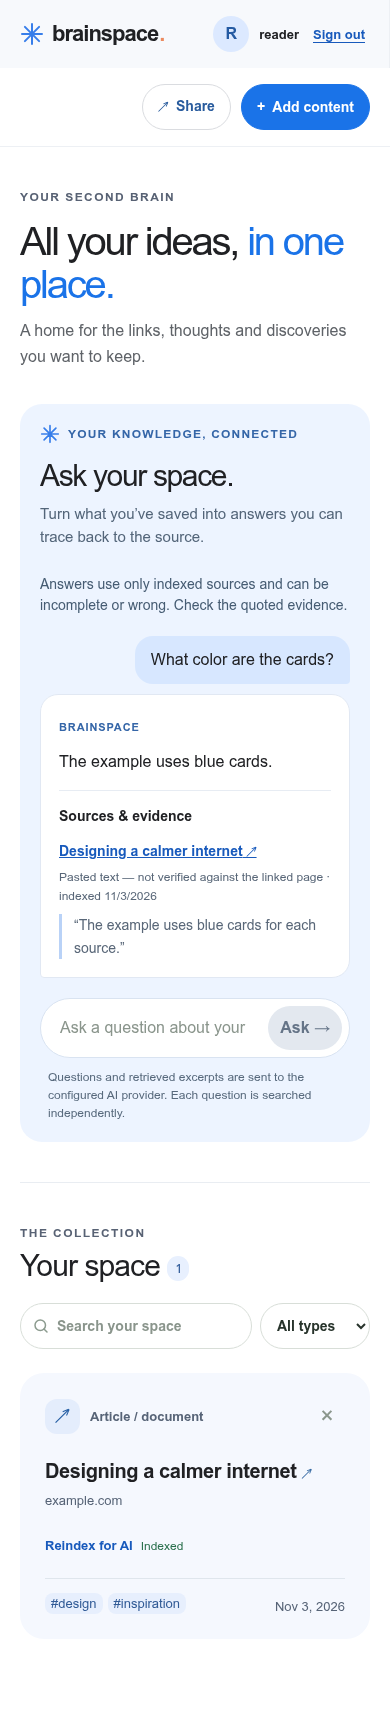
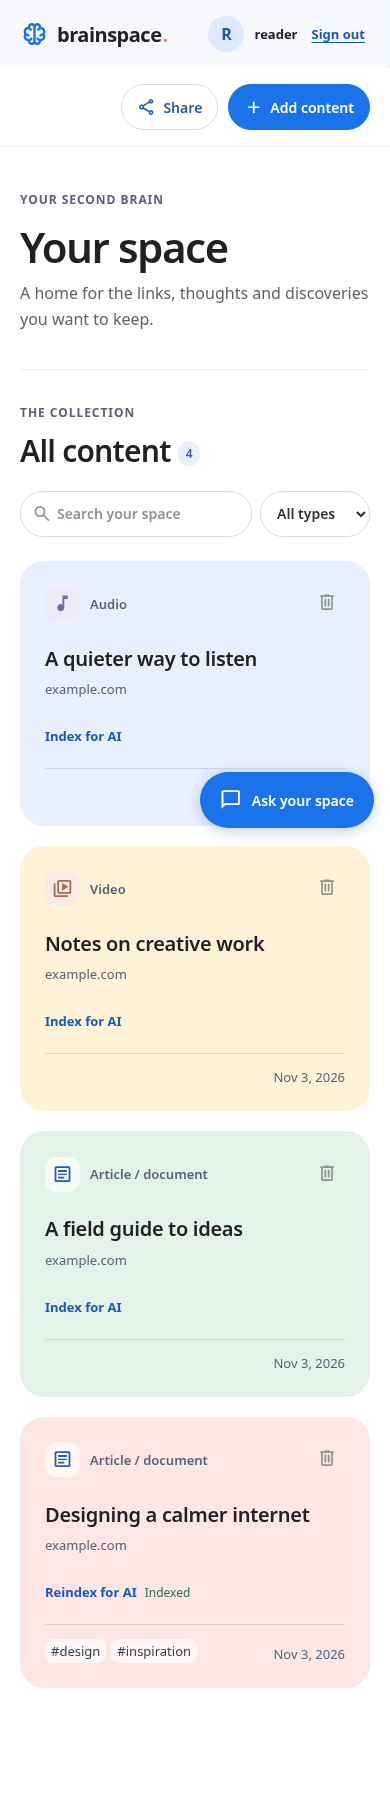
docs: explain Python RAG deployment and update screenshots

diff --git a/DEPLOYMENT.md b/DEPLOYMENT.md
@@ -1,10 +1,10 @@
 # Deployment guide
 
-This guide describes the implemented Node/Express API, MongoDB database and static Vite frontend. No production infrastructure is provisioned by this repository. The recommended initial topology is one HTTPS hostname, with a reverse proxy serving `frontend/dist` and forwarding `/api/` to one private Node process on port 8000. MongoDB should be a private, backed-up managed service or a separately secured instance. Keeping frontend and API on the same origin is important for the HTTP-only `SameSite=Lax` session cookie; cross-site hosting is not supported by the default cookie configuration.
+This guide describes the implemented Node/Express API, MongoDB database and static Vite frontend. No production infrastructure is provisioned by this repository. The recommended initial topology is one HTTPS hostname, with a reverse proxy serving `frontend/dist` and forwarding `/api/` to one private Node process on port 8000. When AI is enabled, Node starts a local Python subprocess for each RAG request; no Python HTTP listener is required. MongoDB should be a private, backed-up managed service or a separately secured instance. Keeping frontend and API on the same origin is important for the HTTP-only `SameSite=Lax` session cookie; cross-site hosting is not supported by the default cookie configuration.
 
 ## 1. Prepare services and secrets
 
-- Provision Node.js 22.12+ and MongoDB compatible with Mongoose 9; restrict database network access to the backend host and create a least-privilege database user with TLS enabled for remote connections. Enable backups and test restoring them.
+- Provision Node.js 22.12+, Python 3.10+ (standard library only) and MongoDB compatible with Mongoose 9; restrict database network access to the backend host and create a least-privilege database user with TLS enabled for remote connections. Enable backups and test restoring them.
 - Choose a DNS hostname and provision HTTPS. Keep Node and MongoDB off the public internet; expose only ports 80/443 on the reverse proxy.
 - Store environment variables in the host's secret manager or service environment, not in the repository, logs or frontend bundle:
 
@@ -16,6 +16,7 @@ This guide describes the implemented Node/Express API, MongoDB database and stat
 | `PORT` | backend | Defaults to `8000`. Bind/route privately at the infrastructure layer. |
 | `CORS_ORIGIN` | backend | Required in production. Exact public frontend origin, e.g. `https://brain.example.com`; comma-separated if multiple trusted origins. No trailing slash. |
 | `TRUST_PROXY_HOPS` | backend | Optional integer 1–10; set only to the exact count of trusted reverse proxies. Used for client IP/rate limiting; incorrect values permit spoofing or overly broad throttling. |
+| `RAG_PYTHON` | backend | Optional absolute path to the Python 3.10+ executable; defaults to `python3`. |
 | `RAG_ENABLED` | backend | Optional; `true` explicitly enables AI indexing and chat. Default off. |
 | `OPENAI_API_KEY` | backend | Required when AI is enabled; secret manager only, never frontend. |
 | `OPENAI_EMBEDDING_MODEL` | backend | Optional; default `text-embedding-3-small`. Changing it requires reindexing. |
@@ -36,7 +37,7 @@ npm --prefix frontend run build
 NODE_ENV=production npm start
 ```
 
-Use a process manager or hosting service to run `node dist/index.js` with the environment above, restart on failure, and retain structured deployment logs without secrets or share tokens. The API exits if the token secret is weak, the production CORS origin is missing, or MongoDB cannot connect. Configure health checks at `/api/health`; this is a liveness endpoint, not a database connectivity guarantee. Probe an authenticated data workflow separately.
+Use a process manager or hosting service to run `node dist/index.js` with its working directory set to the repository root (so `python -m rag.worker` can locate the Python package), with the environment above, restart on failure, and retain structured deployment logs without secrets or share tokens. The API exits if the token secret is weak, the production CORS origin is missing, or MongoDB cannot connect. Configure health checks at `/api/health`; this is a liveness endpoint, not a database connectivity guarantee. Probe an authenticated data workflow separately.
 
 ## 3. Route traffic and configure HTTPS
 
@@ -87,4 +88,4 @@ To roll back, restore the previously tested application artifact/commit and its 
 
 AI is off by default. Before enabling it, review provider data-handling terms, user consent, spending limits and [RAG_EVALUATION.md](RAG_EVALUATION.md). Set the variables in the backend secret manager and allow outbound HTTPS to the OpenAI API; source fetching also needs outbound HTTP(S) to publicly accessible pages. Prevent access to private, loopback, link-local and cloud-metadata addresses at the network layer as defense in depth; the application validates and pins DNS addresses on each redirect, but should not be the only network control. Do not log prompts, source text, bearer keys, or share tokens. Source excerpts and questions are transmitted to OpenAI; an index stores source chunks and embeddings in MongoDB. Backups retain them until their retention period expires, even if a live index is removed.
 
-The current index is limited to 250 indexed sources per account and performs in-process cosine ranking, not a scalable vector database. Protect the service from abuse and configure distributed quotas/monitoring before multi-instance or high-volume deployment; the built-in AI rate limit is per-process. Changing the embedding model makes existing indexes incompatible until individually reindexed. There is no automatic refresh of changed websites, transcription, OCR, PDF parsing, or private-site authentication. Treat an unreachable/unsupported source as a request for pasted text, never as verified content. Real model accuracy, production network policy, data retention and costs need staging verification before rollout.
+The current index is limited to 250 indexed sources per account and performs per-request Python-process cosine ranking, not a scalable vector database. Protect the service from abuse and configure distributed quotas/monitoring before multi-instance or high-volume deployment; the built-in AI rate limit is per-process. Changing the embedding model makes existing indexes incompatible until individually reindexed. There is no automatic refresh of changed websites, transcription, OCR, PDF parsing, or private-site authentication. Treat an unreachable/unsupported source as a request for pasted text, never as verified content. Real model accuracy, production network policy, data retention and costs need staging verification before rollout.

diff --git a/RAG_EVALUATION.md b/RAG_EVALUATION.md
@@ -2,7 +2,7 @@
 
 ## Enable it
 
-1. Run MongoDB and the BrainSpace API/frontend as described in README.md.
+1. Install Python 3.10+ (no additional Python packages are needed), and run MongoDB and the BrainSpace API/frontend from the repository root as described in README.md. If needed, set `RAG_PYTHON` to the absolute Python executable path on the backend.
 2. In the **backend** `.env` or secret manager set:
 
 ```dotenv
@@ -14,22 +14,22 @@ OPENAI_CHAT_MODEL=gpt-4o-mini
 
 The key requires an OpenAI account with access to the selected models, available billing/quota, and network access to `https://api.openai.com`. The model must support Chat Completions structured outputs. Keep the key out of Git, logs, browser code and chat. The two model settings are optional with the shown defaults. After editing the environment, restart the API. Changing the embedding model requires reindexing each source.
 3. Save a link. On its card choose **Index for AI**. Paste at least 80 characters of source text, or leave the box empty to fetch a publicly accessible HTML/plain-text page. Read the privacy notice and explicitly consent. The first 24,000 characters are chunked and embedded. Restricted pages, PDFs, images, audio and video are not parsed/transcribed; paste their text or transcript instead. User content, questions and retrieved excerpts are sent to OpenAI and incur usage charges. Indexing is not automatic.
-4. Ask a question in **Ask your space**. Review the linked sources and quotations; pasted text is labelled and is not verified against the linked page. Extracted content can also become stale; each question is independent, so the chatbot does not resolve follow-up references from earlier messages. Click **Reindex for AI** to refresh changed text or **Remove AI index** to remove indexed chunks/vectors while retaining the saved link. Deleting the link also deletes its live index.
+4. Open the floating chat button and ask a question in **Ask your space**. Review the linked sources and quotations; pasted text is labelled and is not verified against the linked page. Extracted content can also become stale; each question is independent, so the chatbot does not resolve follow-up references from earlier messages. Click **Reindex for AI** to refresh changed text or **Remove AI index** to remove indexed chunks/vectors while retaining the saved link. Deleting the link also deletes its live index.
 
 ## How it works
 
-Each authenticated user can only index and retrieve their own content. Public page retrieval permits only HTTP(S) on standard ports, validates all DNS answers, pins the connection to a public address and revalidates each redirect. It caps response size and time. An external egress firewall is still required for defense in depth. HTML extraction is best effort, with no JavaScript execution or authenticated browsing.
+The Python RAG worker handles extraction, chunking, embeddings, retrieval, generation and evidence checks. The authenticated Express API scopes MongoDB reads and writes by user and starts the worker through private stdin/stdout; there is no Python HTTP endpoint. Existing indexed data is compatible. Each authenticated user can only index and retrieve their own content. Public page retrieval permits only HTTP(S) on standard ports, validates all DNS answers, pins the connection to a public address and revalidates each redirect. It caps response size and time. An external egress firewall is still required for defense in depth. HTML extraction is best effort, with no JavaScript execution or authenticated browsing.
 
 Text is split into overlapping ~1,000-character chunks. Vectors are stored in the owning content document. Retrieval ranks by cosine similarity, selects up to five chunks with a fixed 0.35 threshold, then asks the chat model to use only those excerpts. The server rejects answers without matching verbatim quotes and asks the model in a separate call to check whether the quotes support the answer. If retrieval, citation validation or support checks fail, the assistant abstains. A provider error is shown rather than fabricated into an answer.
 
 **These measures reduce risk; they do not guarantee truth, completeness, prompt-injection immunity or zero hallucinations.** The checker can make mistakes, the sources themselves can be inaccurate, and exact quotes do not prove entailment. Users should verify citations, especially for consequential decisions. Model output is displayed as text, not executed. Do not treat AI as an authority for medical, legal, financial, safety or other high-stakes decisions.
 
-The implementation is deliberately bounded: 250 indexed sources/account, 24,000 characters/source, 30 chunks/source, in-process ranking, 30 indexing/ask requests per user per 15 minutes **per server process**, and 30-second provider timeouts. The cosine threshold is a starting heuristic, not a calibrated confidence probability. There is no vector database, OCR, transcription, automatic reindexing, chat memory, streaming or distributed quota. Backups may retain deleted data subject to the operator's policy.
+The implementation is deliberately bounded: 250 indexed sources/account, 24,000 characters/source, 30 chunks/source, per-request Python subprocess ranking, 30 indexing/ask requests per user per 15 minutes **per server process**, 30-second provider timeouts, and a 120-second overall worker deadline. The cosine threshold is a starting heuristic, not a calibrated confidence probability. There is no vector database, OCR, transcription, automatic reindexing, chat memory, streaming or distributed quota. Backups may retain deleted data subject to the operator's policy.
 
 ## Test without provider charges
 
 ```bash
-npm run build && npm test
+npm run build && npm test && npm run test:rag
 npm --prefix frontend run build && npm --prefix frontend test
 ```
 

diff --git a/DEVELOPMENT.md b/DEVELOPMENT.md
@@ -29,7 +29,7 @@ Allowed content types: `article`, `video`, `audio`, `image`. Links must use HTTP
 
 ## Workflow and conventions
 
-Install and run commands are in [README.md](README.md). Branch from the current main branch, make a focused change, run the relevant suites, inspect the diff and commit a coherent milestone. Keep source code in TypeScript, prefer small domain-oriented components, keep network requests in `services/api.ts`, validate untrusted inputs at API boundaries, and scope every private database query to the authenticated user. Do not use Redux. Recoil atoms hold the current user and content list; local ephemeral form/dialog state stays local. Make writes through the API and update atom state only after success.
+Install and run commands are in [README.md](README.md). Branch from the current main branch, make a focused change, run the relevant suites, inspect the diff and commit a coherent milestone. Keep application/API code in TypeScript and RAG pipeline code in Python; prefer small domain-oriented components, keep network requests in `services/api.ts`, validate untrusted inputs at API boundaries, and scope every private database query to the authenticated user. Do not use Redux. Recoil atoms hold the current user and content list; local ephemeral form/dialog state stays local. Make writes through the API and update atom state only after success.
 
 For a feature: define and validate the API contract, add a service or model as needed, add the API route and owner checks, connect the frontend service and components, and test success, errors and authorization. Add new environment variables to `.env.example` and document them in the deployment guide. Never store secrets in source or the frontend. Keep tests near frontend components and in `tests/` for API/browser workflows.
 
@@ -37,6 +37,7 @@ For a feature: define and validate the API contract, add a service or model as n
 npm run dev                       # backend watch mode
 npm --prefix frontend run dev     # frontend dev server
 npm run build && npm test         # backend compile and integration tests
+npm run test:rag                  # Python retrieval and safety tests
 npm --prefix frontend run build && npm --prefix frontend test
 npm run test:e2e                  # built app, isolated DB and browser
 ```
@@ -45,4 +46,4 @@ Recoil 0.7.7's peer range permits React 18; this project pins React 18.3.1 rathe
 
 ## AI retrieval
 
-The opt-in RAG pipeline is in `src/services/rag/`: safe public page extraction, overlapping chunking, OpenAI embeddings, user-scoped cosine retrieval, structured grounded generation, exact-quote validation and a separate model support-check. The source text and vectors are stored under the owning Content record; deleting a source or removing its index removes them from the live database. The frontend provides explicit consent and shows source quotations. Follow [RAG_EVALUATION.md](RAG_EVALUATION.md) before claiming quality or enabling production usage. No provider key belongs in frontend code.
+The opt-in RAG pipeline lives in `rag/` (Python standard library): safe public page extraction, overlapping chunking, OpenAI embeddings, cosine retrieval, structured grounded generation, exact-quote validation and a separate model support-check. Express authenticates users and scopes MongoDB reads and writes in `src/services/rag/assistant.service.ts`, then starts a private Python subprocess over stdin/stdout through `worker.ts`; no additional network port is exposed. Start the API from the repository root so Python can import the `rag` package. Set `RAG_PYTHON` to the Python 3.10+ executable if `python3` is not on PATH. The source text and vectors are stored under the owning Content record; deleting a source or removing its index removes them from the live database. Existing MongoDB index format is unchanged. The frontend provides explicit consent and shows source quotations. The floating assistant uses a non-modal dialog; Google Material Symbols are self-hosted in `frontend/src/assets` with their license. Follow [RAG_EVALUATION.md](RAG_EVALUATION.md) before claiming quality or enabling production usage. No provider key belongs in frontend code.

diff --git a/TESTING.md b/TESTING.md
@@ -4,7 +4,7 @@
 
 - **API:** Vitest, Supertest and `mongodb-memory-server` in `tests/api.test.ts`, exercising real Express handlers and MongoDB. Tests cover account creation and login, invalid inputs, authorization/owner isolation, content creation/list/deletion, link rotation/revocation, public retrieval, origin rejection and session invalidation.
 - **Frontend:** Vitest, jsdom and React Testing Library in `frontend/src/**/*.test.tsx` cover content form submission/error/escape, list/empty/delete behavior and authentication-driven Recoil updates.
-- **Browser:** `tests/e2e.mjs` uses Playwright, the built frontend, the built API and an isolated temporary MongoDB. It exercises registration, saving, indexing, cited chat, index removal, search, read-only sharing, revocation, deletion, logout/login and a mobile-width overflow check. The OpenAI HTTP calls are intercepted by a test-only stub; no real provider is tested. The screenshots in `docs/screenshots` were generated from this isolated test. Set `SCREENSHOT_DIR=docs/screenshots` when deliberately refreshing them; normal test runs do not alter tracked screenshots.
+- **Browser:** `tests/e2e.mjs` uses Playwright, the built frontend, the built API and an isolated temporary MongoDB. It exercises registration, saving, indexing, cited chat, index removal, search, read-only sharing, revocation, deletion, logout/login and a mobile-width overflow check. Python OpenAI HTTP calls are intercepted by a test-only stub; no real provider is tested. The screenshots in `docs/screenshots` were generated from this isolated test. Set `SCREENSHOT_DIR=docs/screenshots` when deliberately refreshing them; normal test runs do not alter tracked screenshots.
 
 ## Commands
 
@@ -13,6 +13,7 @@ npm ci
 npm --prefix frontend ci
 npm run build
 npm test
+npm run test:rag
 npm --prefix frontend run build
 npm --prefix frontend test
 npx playwright install chromium
@@ -33,4 +34,4 @@ New behavior should include focused success, invalid-input, authorization and er
 
 ## RAG evaluation
 
-`npm test` includes deterministic retrieval, evidence validation, public-address blocking, mocked-provider contract tests, and authenticated/isolated RAG API tests. These are automated regression checks, **not** proof of answer quality with a real model. The optional `npm run eval:rag` uses a small labelled synthetic set and real billable model calls only when explicitly enabled with `RAG_EVAL_ALLOW_PAID=true`; no live model evaluation has been run by default. See [RAG_EVALUATION.md](RAG_EVALUATION.md) for setup, metrics, limitations and a production evaluation plan. Frontend tests use mocked API responses and do not establish real provider compatibility.
+`npm run test:rag` runs Python standard-library unit tests for retrieval, citations, address filtering and provider validation. `npm test` runs authenticated/isolated API integration tests against the actual Python subprocess with a test-only provider stub. These are automated regression checks, **not** proof of answer quality with a real model. The optional `npm run eval:rag` uses a small labelled synthetic set and real billable model calls only when explicitly enabled with `RAG_EVAL_ALLOW_PAID=true`; no live model evaluation has been run by default. See [RAG_EVALUATION.md](RAG_EVALUATION.md) for setup, metrics, limitations and a production evaluation plan. Frontend tests use mocked API responses and do not establish real provider compatibility.

diff --git a/README.md b/README.md
@@ -25,11 +25,11 @@ The standard search filters saved titles, URLs and tags locally. Optional AI sea
 
 ## Stack and architecture
 
-React 18, TypeScript, Vite and Recoil in `frontend/`; TypeScript, Express, Mongoose and MongoDB in `src/`. A same-origin reverse proxy serves the frontend and routes `/api` to the API. Authentication uses bcrypt and a signed, HTTP-only cookie. MongoDB holds users, content, tags and hashed sharing tokens. See [DEVELOPMENT.md](DEVELOPMENT.md).
+React 18, TypeScript, Vite and Recoil in `frontend/`; TypeScript, Express, Mongoose and MongoDB in `src/`; and Python for the RAG pipeline in `rag/`. A same-origin reverse proxy serves the frontend and routes `/api` to the API. Authentication uses bcrypt and a signed, HTTP-only cookie. MongoDB holds users, content, tags and hashed sharing tokens. See [DEVELOPMENT.md](DEVELOPMENT.md).
 
 ## Local setup
 
-Prerequisites: Node.js 22.12+ and npm, and a running MongoDB instance. From the repository root:
+Prerequisites: Node.js 22.12+ and npm, Python 3.10+ for AI search and its tests, and a running MongoDB instance. The Python pipeline uses only the standard library. From the repository root:
 
 ```bash
 npm ci
@@ -50,12 +50,12 @@ Visit `http://localhost:5173` and create an account. Set `PORT`, `CORS_ORIGIN`, 
 
 ## Optional AI search
 
-Set `RAG_ENABLED=true` and a server-side `OPENAI_API_KEY` in `.env`. The default embedding and chat models can be configured via `OPENAI_EMBEDDING_MODEL` and `OPENAI_CHAT_MODEL`; see [RAG_EVALUATION.md](RAG_EVALUATION.md). Restart the API, save a link, choose **Index for AI**, and explicitly consent before indexing. Leave the text field blank to fetch an accessible public HTML/text page, or paste text/transcripts. Then ask a question in **Ask your space**. Indexing and questions send text to OpenAI and may incur charges. The feature will not work without a valid key and network access; it is off by default.
+Set `RAG_ENABLED=true` and a server-side `OPENAI_API_KEY` in `.env`. The default embedding and chat models can be configured via `OPENAI_EMBEDDING_MODEL` and `OPENAI_CHAT_MODEL`; see [RAG_EVALUATION.md](RAG_EVALUATION.md). Restart the API, save a link, choose **Index for AI**, and explicitly consent before indexing. Leave the text field blank to fetch an accessible public HTML/text page, or paste text/transcripts. Open the floating **Ask your space** button to ask a question. Indexing and questions send text to OpenAI and may incur charges. The feature will not work without a valid key and network access; it is off by default.
 
 ## Build and test
 
 ```bash
-npm run build && npm test
+npm run build && npm test && npm run test:rag
 npm --prefix frontend run build && npm --prefix frontend test
 npx playwright install chromium  # one-time, if Chromium is not already available
 npm run test:e2e
